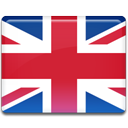
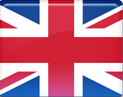
Drapeaux correction CSS et affichage

diff --git a/style/stylesheet.css b/style/stylesheet.css
@@ -363,6 +363,7 @@ Vue lieux culturels
 .country-flag{
     width: 2%;
     margin-bottom: -9px;
+    box-shadow: 0px 3px 10px black;
 }
 
 

diff --git a/vue/changerLangue.php b/vue/changerLangue.php
@@ -28,12 +28,12 @@ if(isset($_SESSION['langue']))
     {
     	$route = "./index.php?langue=en".$page;
 
-        echo '<a href = "'.$route.'"><img class = "country-flag" src = "./ressources/drapeauangleterre.png" alt = "Drapeau anglais"></img></a>'; 
+        echo '<a href = "'.$route.'"><img class = "country-flag" src = "./ressources/drapeaufrance.png" alt = "Drapeau anglais"></img></a>'; 
     }
     else if($langue == "en")
     {
     	$route = "./index.php?langue=fr".$page;
-        echo '<a href = "'.$route.'"><img class = "country-flag" src = "./ressources/drapeaufrance.png" alt = "Drapeau français"></img></a>'; 
+        echo '<a href = "'.$route.'"><img class = "country-flag" src = "./ressources/drapeauangleterre.png" alt = "Drapeau français"></img></a>'; 
     }
 }
 
